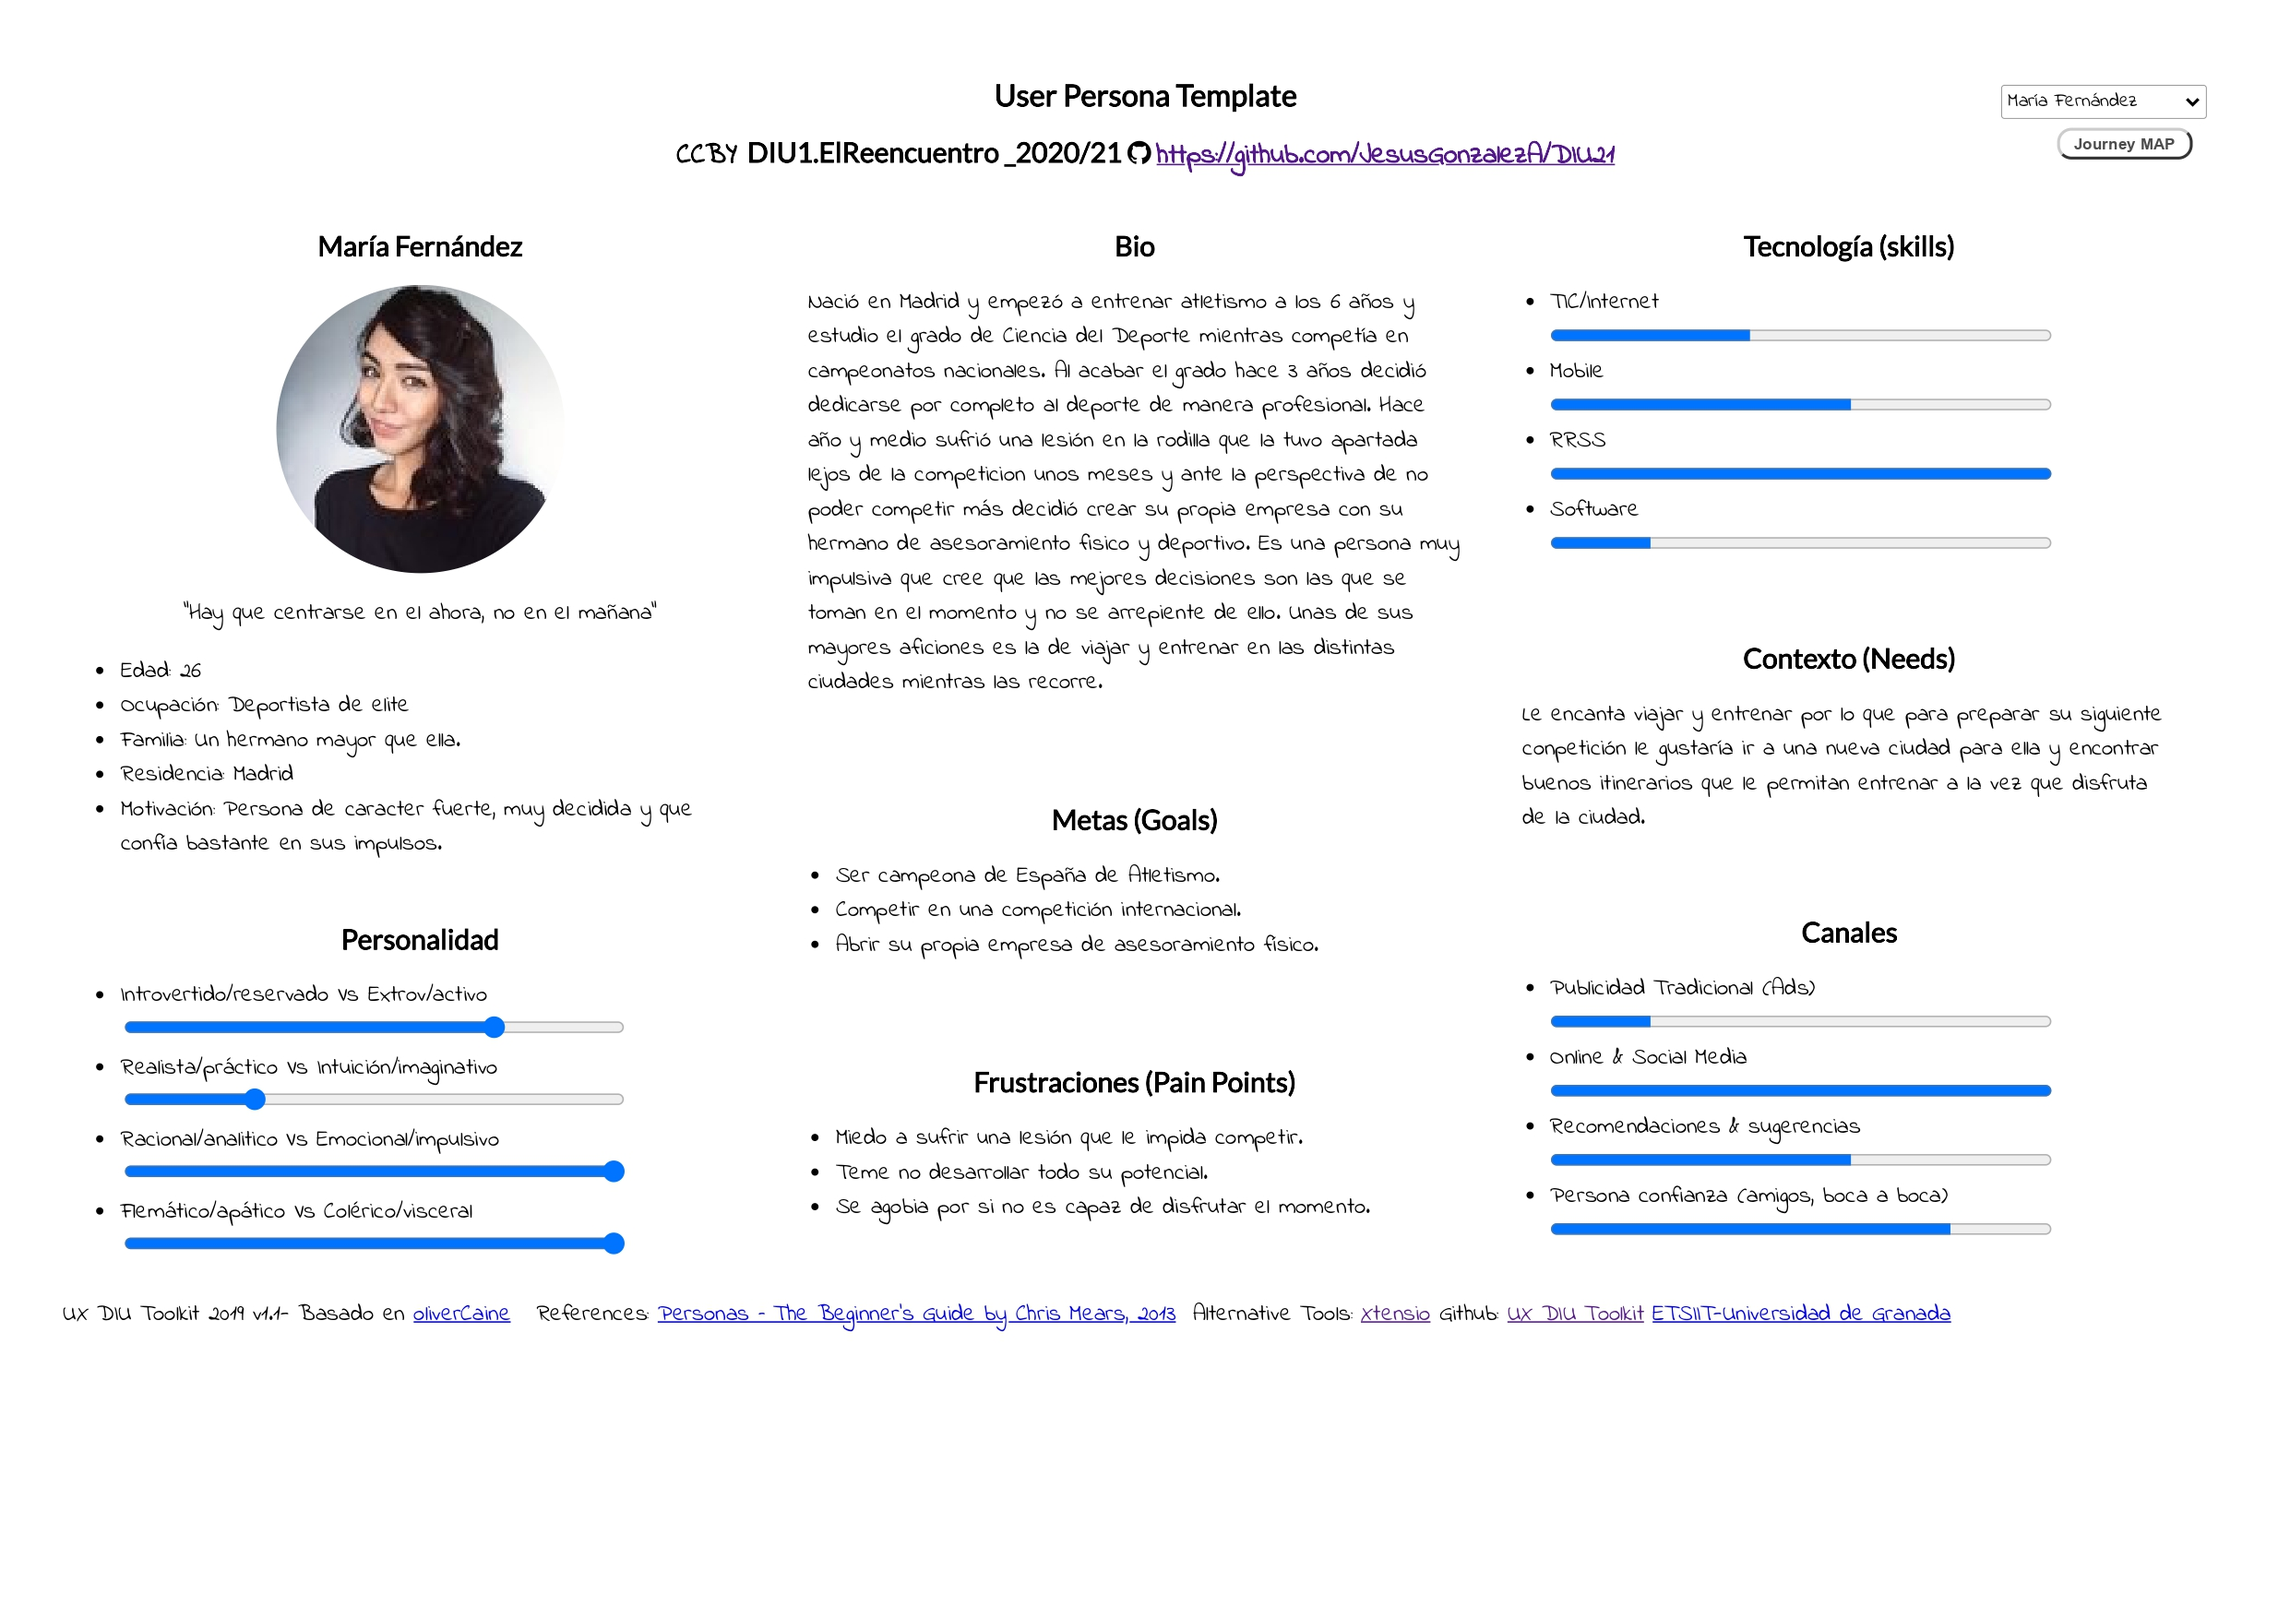
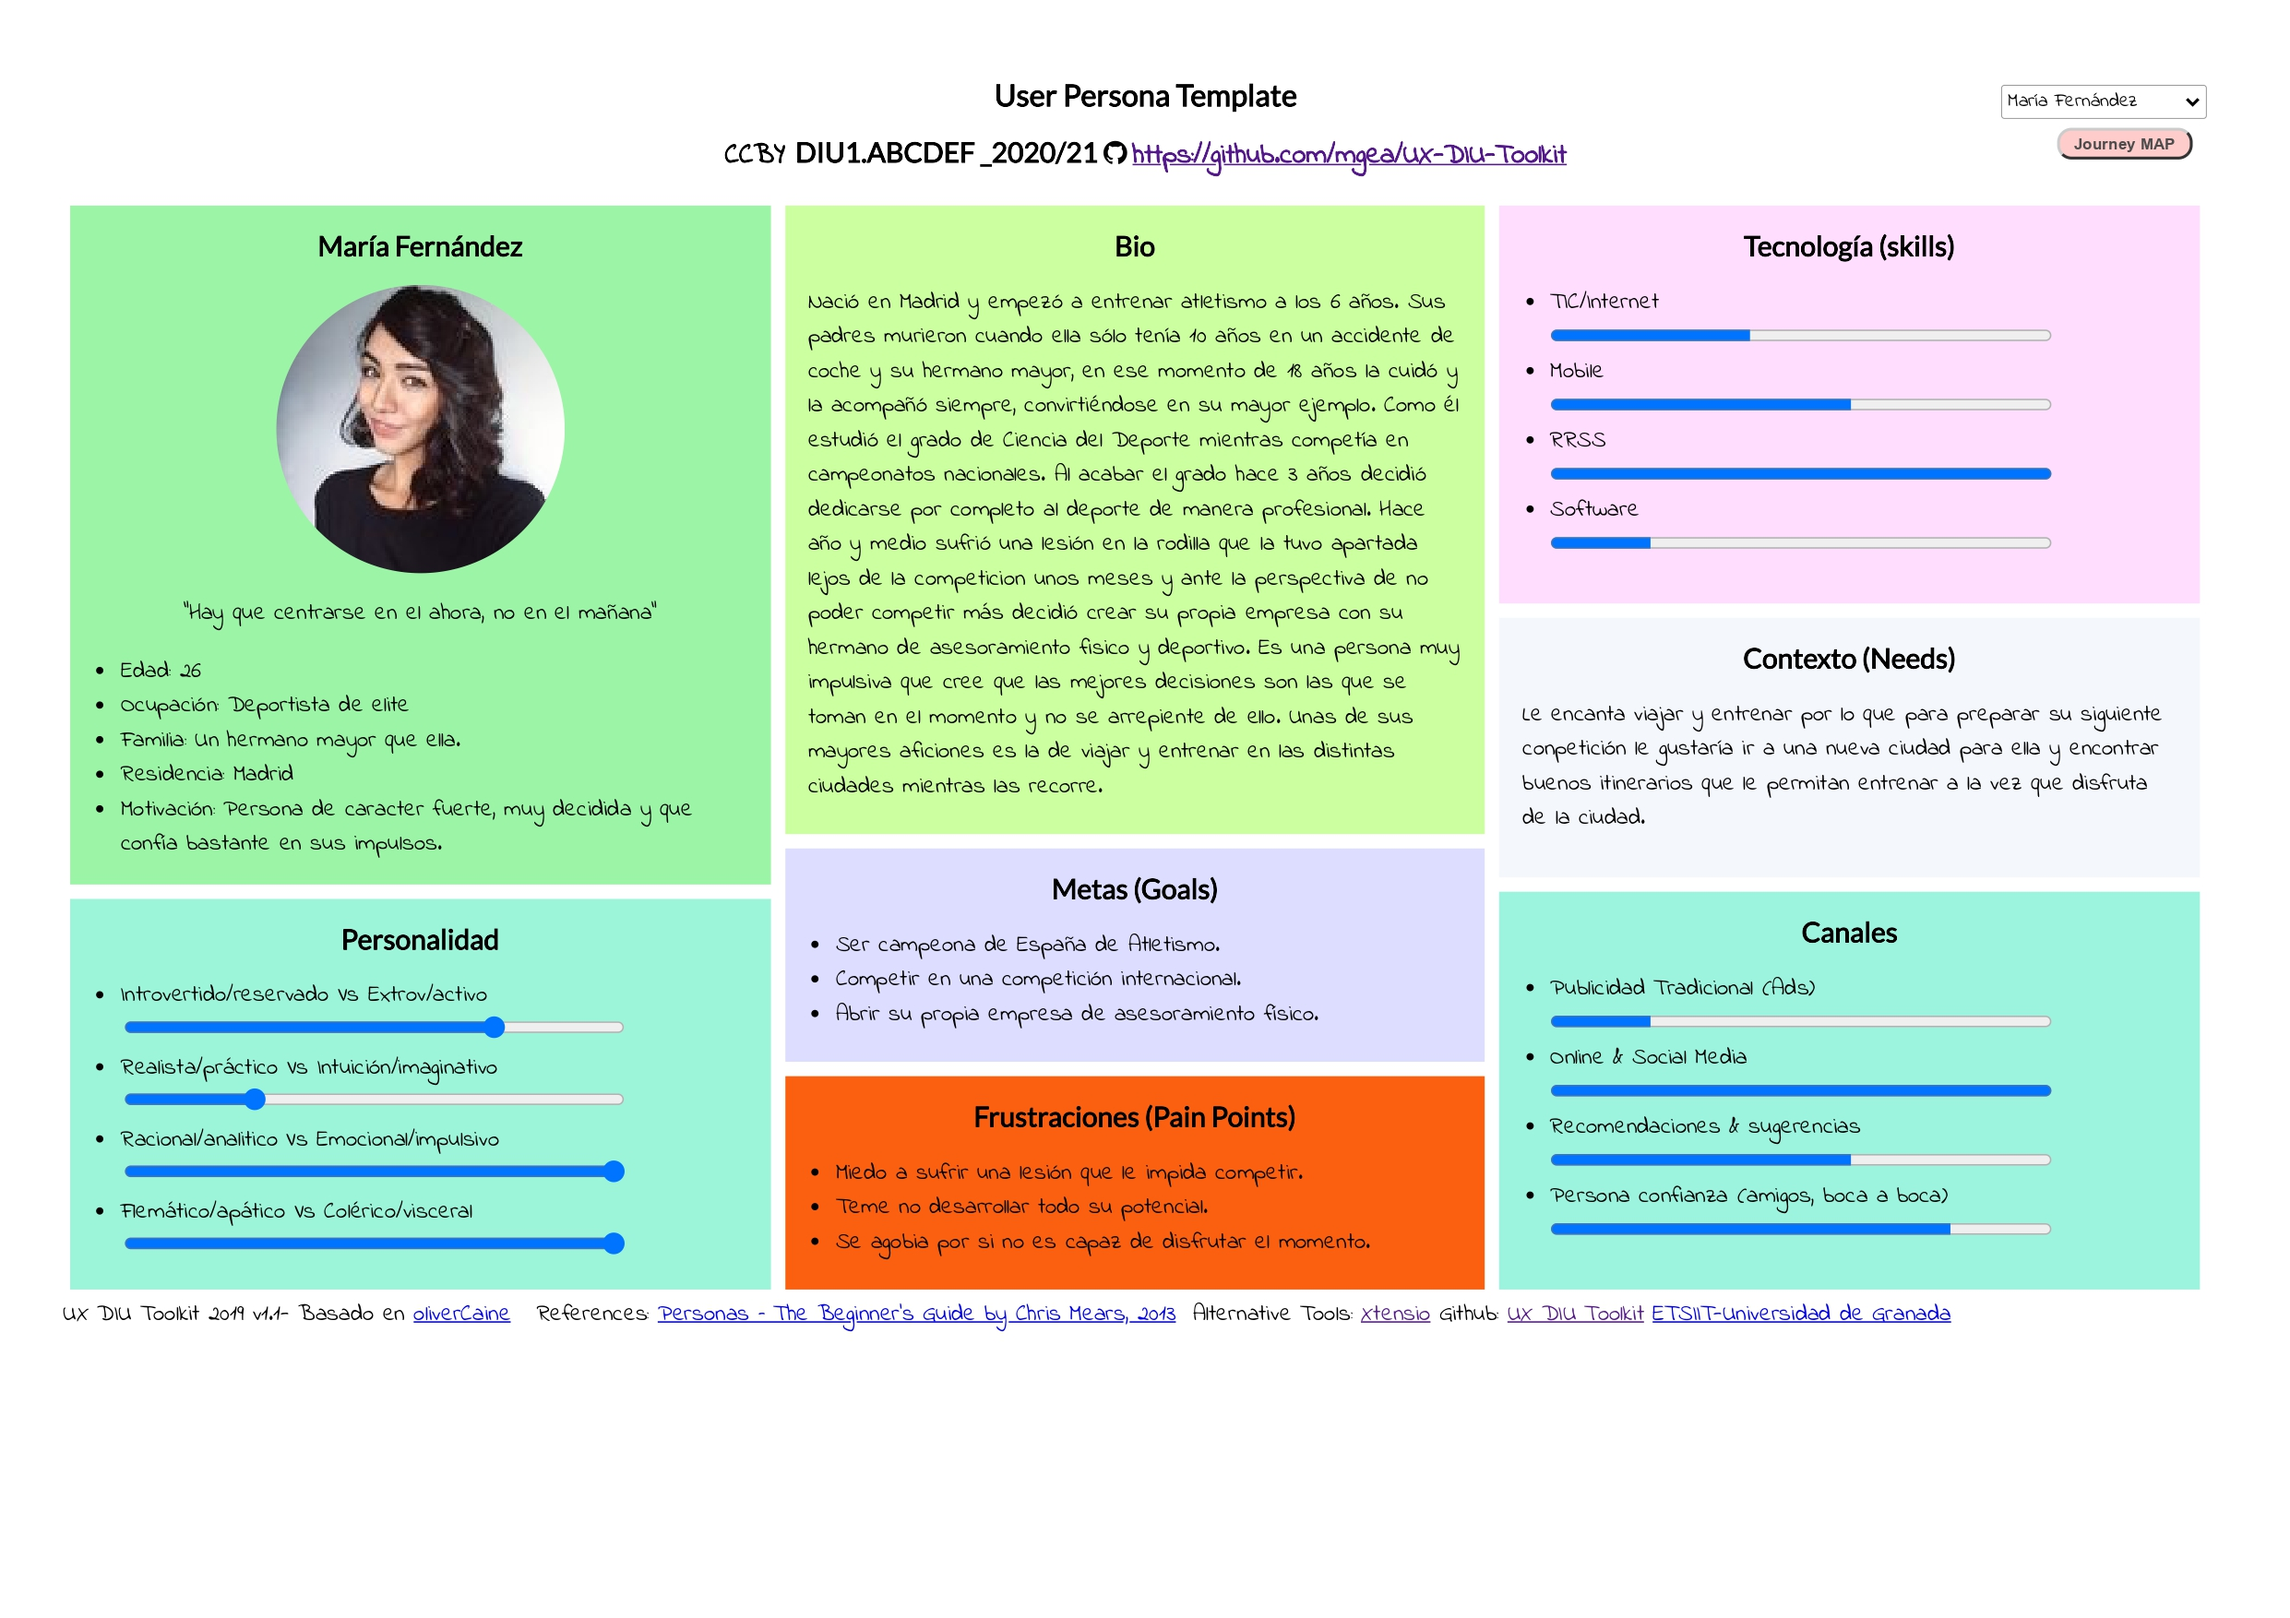
Update: persona de Soriano

diff --git a/P1/Data/Personas.js b/P1/Data/Personas.js
@@ -201,8 +201,10 @@ const personas = [{
         "Teme no desarrollar todo su potencial.",  
         "Se agobia por si no es capaz de disfrutar el momento."
     ],
-    Bio: "Nació en Madrid y empezó a entrenar atletismo a los 6 años y "
-    + "estudio el grado de Ciencia del Deporte mientras competía en campeonatos"
+    Bio: "Nació en Madrid y empezó a entrenar atletismo a los 6 años. Sus padres murieron cuando ella"
+    + " sólo tenía 10 años en un accidente de coche y su hermano mayor, en ese momento de 18 años la cuidó "
+    + "y la acompañó siempre, convirtiéndose en su mayor ejemplo. Como él "
+    + "estudió el grado de Ciencia del Deporte mientras competía en campeonatos"
     + " nacionales. Al acabar el grado hace 3 años decidió dedicarse por completo"
     + " al deporte de manera profesional. Hace año y medio sufrió una lesión en la rodilla"
     + " que la tuvo apartada lejos de la competicion unos meses y ante la perspectiva "
